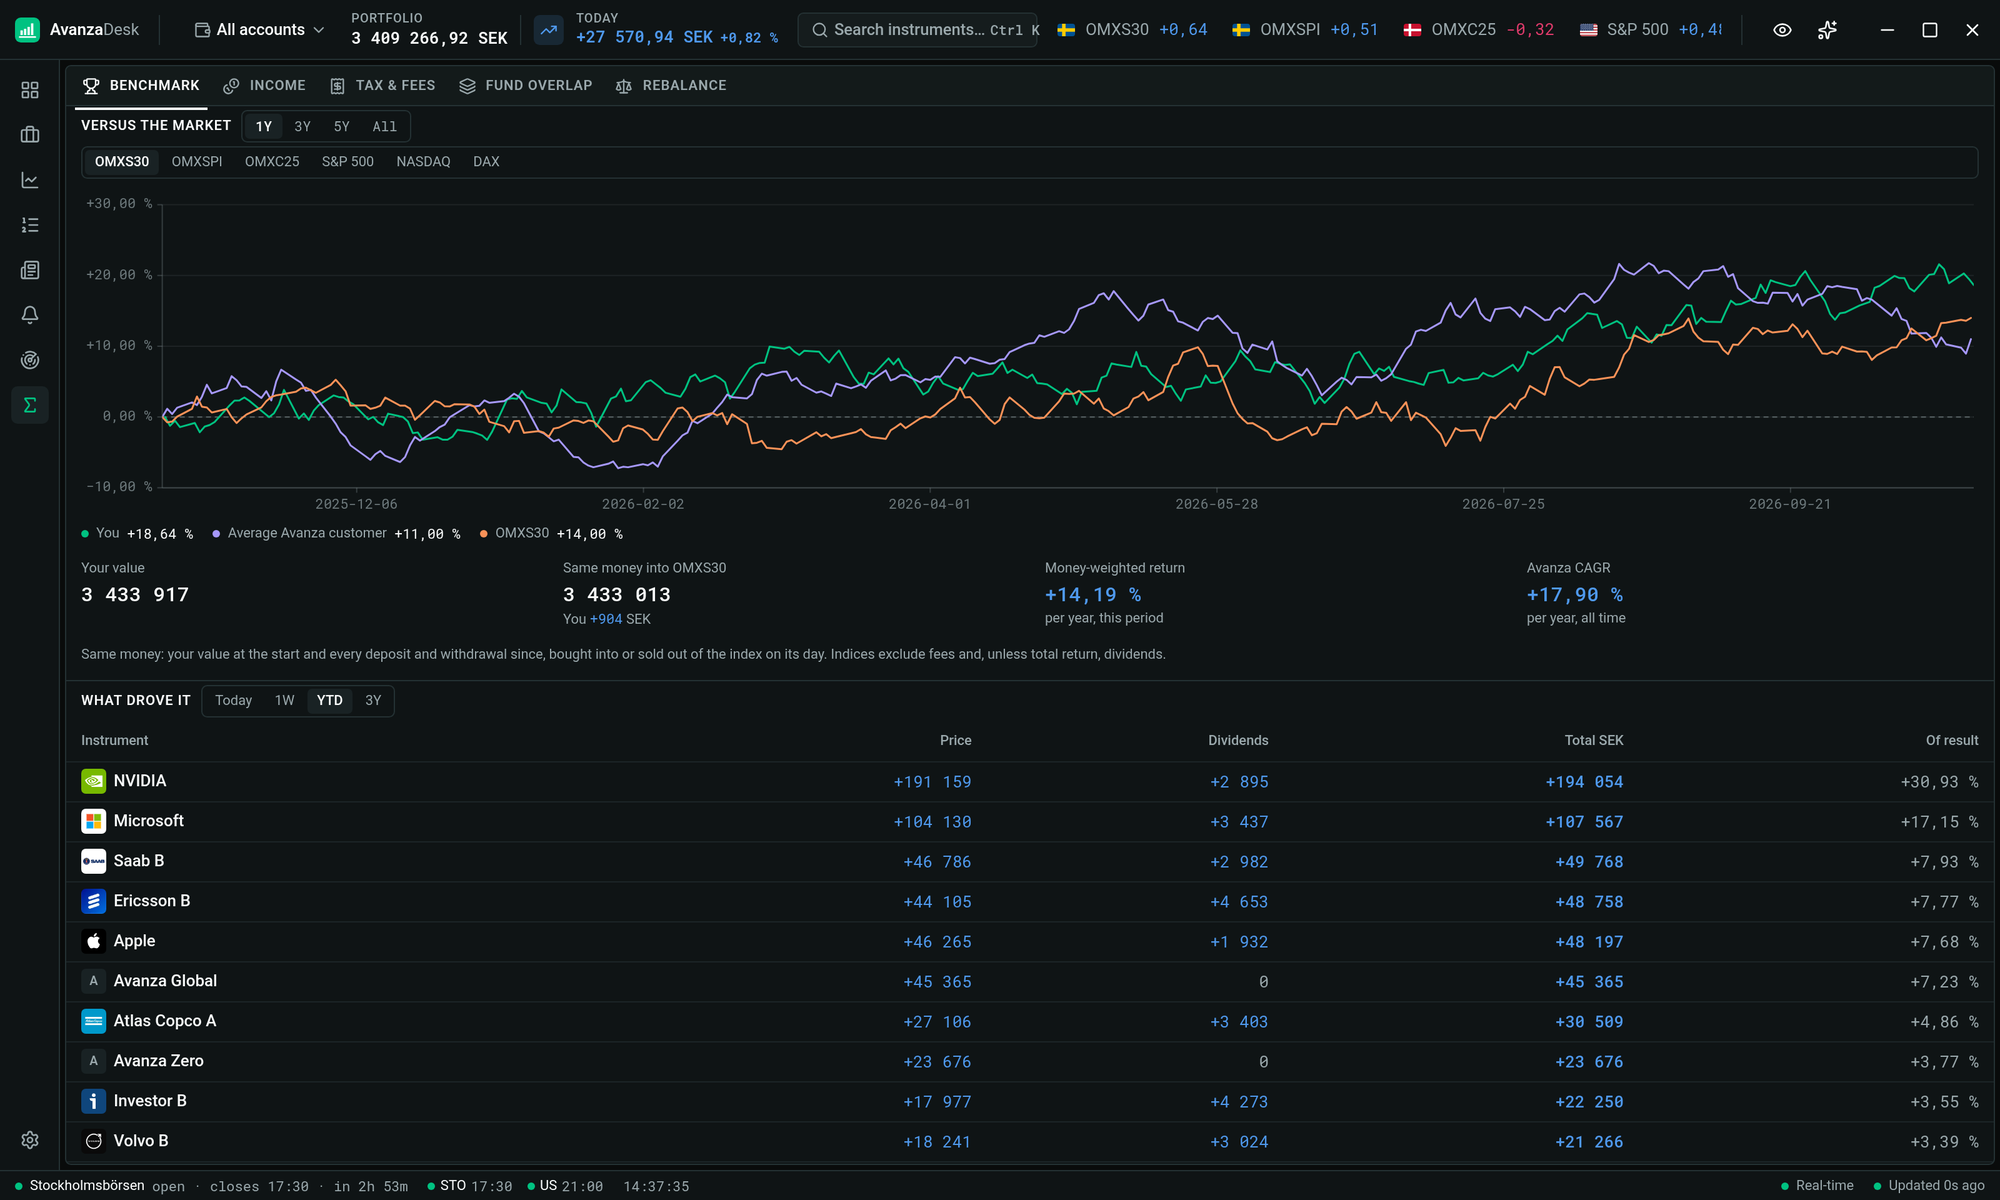
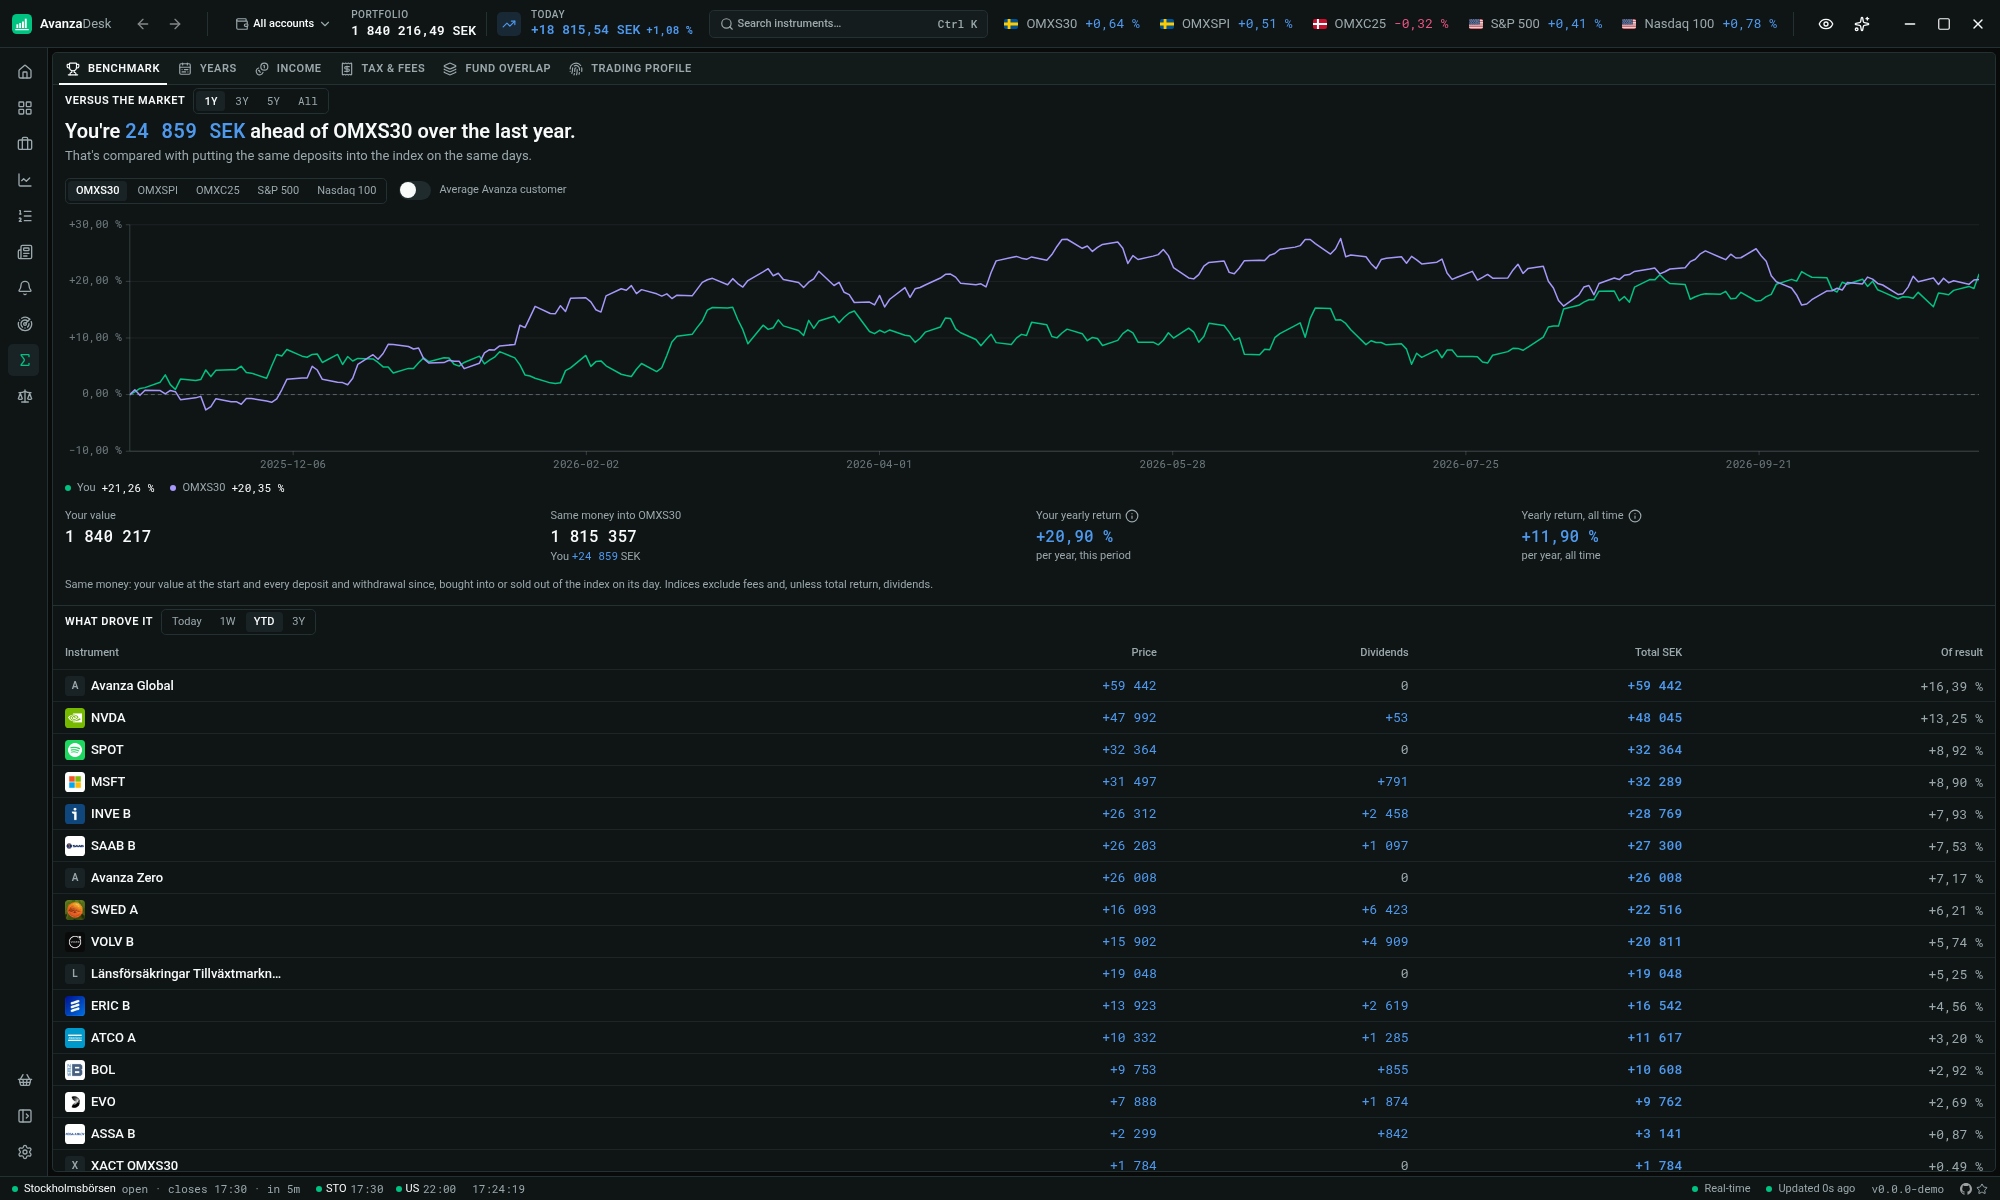
docs: retake screenshots on demo data, with Home, Basket and the assistant

diff --git a/README.md b/README.md
@@ -53,18 +53,24 @@ stop losses and deals, and a news feed with a reports and dividends calendar.
 
 <table>
   <tr>
+    <td width="50%"><img src="docs/screenshots/home.png" alt="Home" /><p align="center"><b>Home</b></p></td>
     <td width="50%"><img src="docs/screenshots/portfolio.png" alt="Portfolio" /><p align="center"><b>Portfolio</b></p></td>
+  </tr>
+  <tr>
     <td width="50%"><img src="docs/screenshots/markets.png" alt="Markets" /><p align="center"><b>Markets</b></p></td>
+    <td width="50%"><img src="docs/screenshots/basket.png" alt="Basket" /><p align="center"><b>Basket</b></p></td>
   </tr>
   <tr>
-    <td><img src="docs/screenshots/news.png" alt="News" /><p align="center"><b>News</b></p></td>
-    <td><img src="docs/screenshots/signals.png" alt="Signals" /><p align="center"><b>Signals</b></p></td>
+    <td width="50%"><img src="docs/screenshots/analysis.png" alt="Analysis" /><p align="center"><b>Analysis</b></p></td>
+    <td width="50%"><img src="docs/screenshots/signals.png" alt="Signals" /><p align="center"><b>Signals</b></p></td>
   </tr>
   <tr>
-    <td><img src="docs/screenshots/analysis.png" alt="Analysis" /><p align="center"><b>Analysis</b></p></td>
-    <td><img src="docs/screenshots/assistant.png" alt="AI assistant" /><p align="center"><b>AI assistant</b></p></td>
+    <td width="50%"><img src="docs/screenshots/news.png" alt="News" /><p align="center"><b>News</b></p></td>
+    <td width="50%"><img src="docs/screenshots/assistant-hero.png" alt="AI assistant" /><p align="center"><b>AI assistant</b></p></td>
   </tr>
 </table>
+
+Screenshots use made-up demo data (`pnpm demo`, `pnpm screenshots`).
 
 ## Your data stays on your computer
 
@@ -83,7 +89,7 @@ stop losses and deals, and a news feed with a reports and dividends calendar.
 macOS and Linux:
 
 ```sh
-curl -fsSL https://raw.githubusercontent.com/AnteWall/avanza-desk/main/scripts/install.sh | sh
+curl -fsSL https://antewall.github.io/avanza-desk/install.sh | sh
 ```
 
 Windows (PowerShell):
